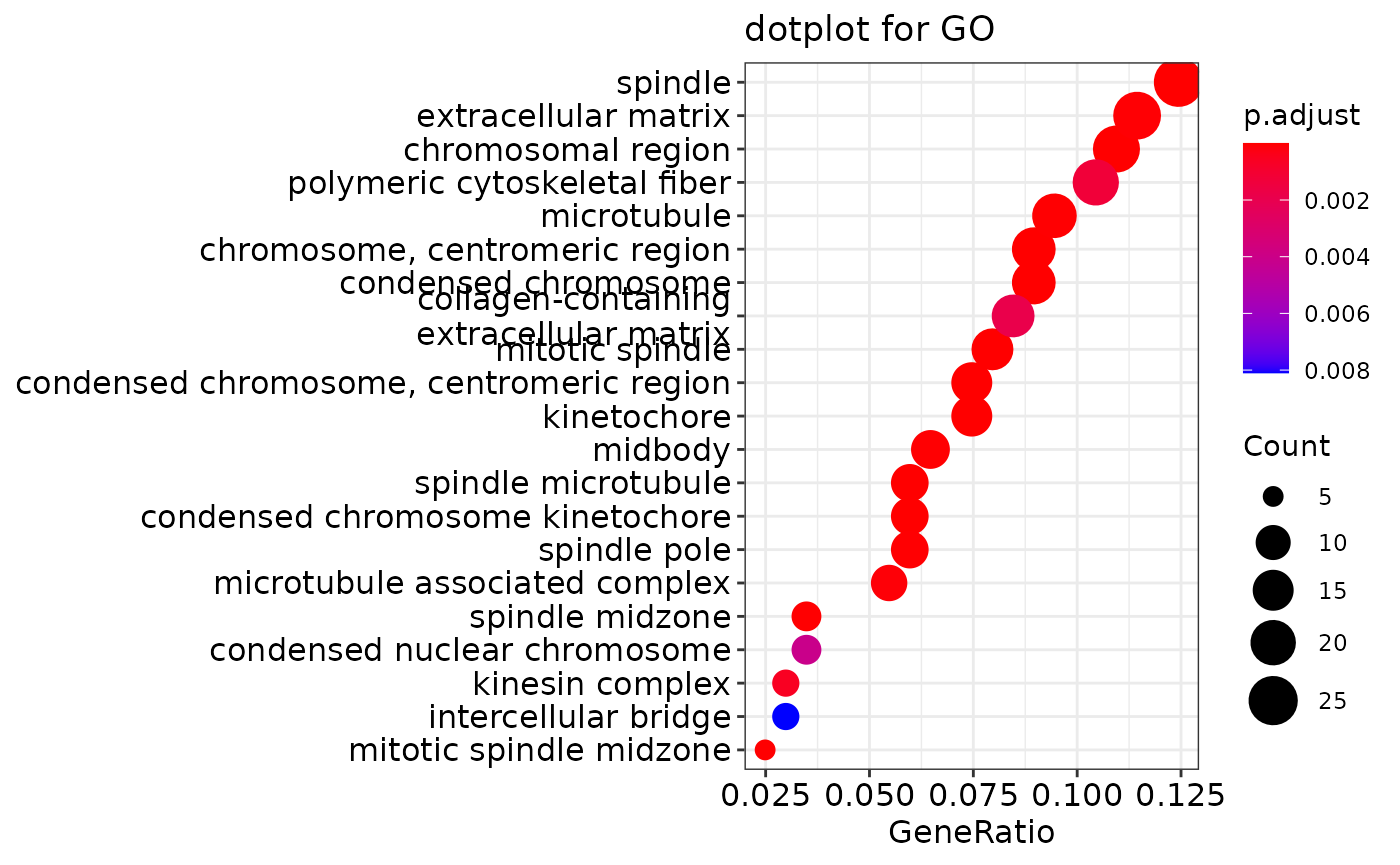
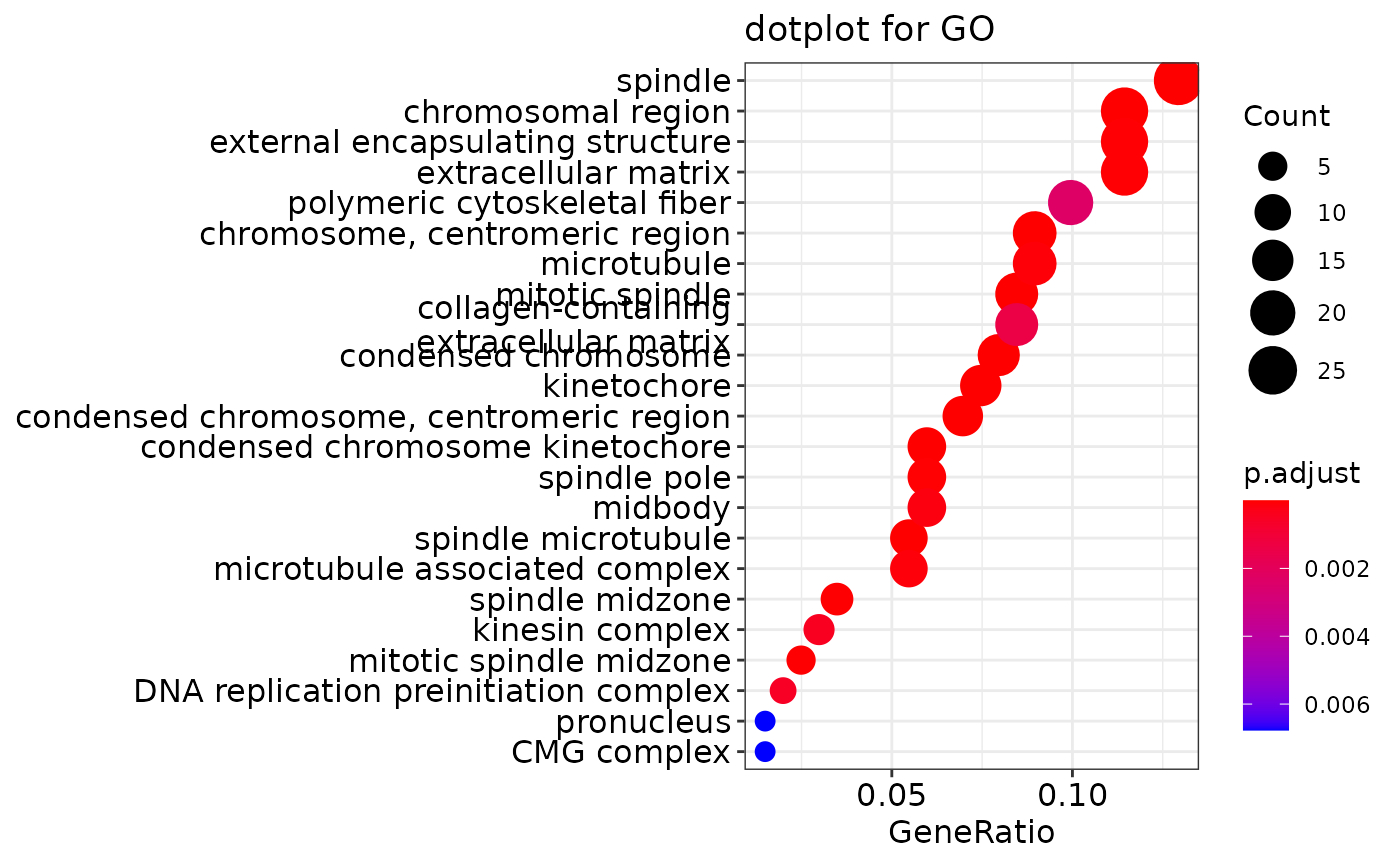
Deploying to gh-pages from  @ 6244d3f3c142cffd48e551c159de735a223b0542 🚀

diff --git a/articles/enrichment.html b/articles/enrichment.html
@@ -127,7 +127,7 @@
 
       
 
-      </header><script src="enrichment_files/header-attrs-2.7/header-attrs.js"></script><div class="row">
+      </header><script src="enrichment_files/header-attrs-2.8/header-attrs.js"></script><div class="row">
   <div class="col-md-9 contents">
     <div class="page-header toc-ignore">
       <h1 data-toc-skip>Enrichment analysis</h1>
@@ -234,32 +234,32 @@
         readable      <span class="op">=</span> <span class="cn">TRUE</span><span class="op">)</span>
 <span class="fu"><a href="https://rdrr.io/r/utils/head.html">head</a></span><span class="op">(</span><span class="va">ego</span><span class="op">)</span></code></pre></div>
 <pre><code>##                    ID                              Description GeneRatio
-## GO:0005819 GO:0005819                                  spindle    25/201
-## GO:0072686 GO:0072686                          mitotic spindle    16/201
-## GO:0005876 GO:0005876                      spindle microtubule    12/201
-## GO:0000779 GO:0000779 condensed chromosome, centromeric region    15/201
+## GO:0005819 GO:0005819                                  spindle    26/201
+## GO:0072686 GO:0072686                          mitotic spindle    17/201
 ## GO:0000775 GO:0000775           chromosome, centromeric region    18/201
+## GO:0098687 GO:0098687                       chromosomal region    23/201
+## GO:0000779 GO:0000779 condensed chromosome, centromeric region    14/201
 ## GO:0000776 GO:0000776                              kinetochore    15/201
 ##              BgRatio       pvalue     p.adjust       qvalue
-## GO:0005819 288/11841 1.770094e-11 4.167650e-09 3.831313e-09
-## GO:0072686 110/11841 4.495145e-11 4.167650e-09 3.831313e-09
-## GO:0005876  52/11841 4.691637e-11 4.167650e-09 3.831313e-09
-## GO:0000779  95/11841 5.556867e-11 4.167650e-09 3.831313e-09
-## GO:0000775 158/11841 1.712374e-10 1.027424e-08 9.445095e-09
-## GO:0000776 109/11841 4.151093e-10 1.841211e-08 1.692622e-08
-##                                                                                                                                                         geneID
-## GO:0005819 CDCA8/CDC20/KIF23/CENPE/ASPM/DLGAP5/SKA1/NUSAP1/TPX2/TACC3/NEK2/CDK1/MAD2L1/KIF18A/BIRC5/KIF11/TTK/AURKB/PRC1/KIFC1/KIF18B/KIF20A/AURKA/CCNB1/KIF4A
-## GO:0072686                                                      KIF23/CENPE/ASPM/SKA1/NUSAP1/TPX2/TACC3/CDK1/MAD2L1/KIF18A/KIF11/AURKB/PRC1/KIFC1/KIF18B/AURKA
-## GO:0005876                                                                             CENPE/SKA1/NUSAP1/CDK1/KIF18A/BIRC5/KIF11/AURKB/PRC1/KIF18B/AURKA/KIF4A
-## GO:0000779                                                            CENPE/NDC80/HJURP/SKA1/NEK2/CENPM/CENPN/ERCC6L/MAD2L1/CDT1/BIRC5/NCAPG/AURKB/AURKA/CCNB1
-## GO:0000775                                           CDCA8/CENPE/NDC80/HJURP/SKA1/NEK2/CENPM/CENPN/ERCC6L/MAD2L1/KIF18A/CDT1/BIRC5/TTK/NCAPG/AURKB/AURKA/CCNB1
-## GO:0000776                                                             CENPE/NDC80/HJURP/SKA1/NEK2/CENPM/CENPN/ERCC6L/MAD2L1/KIF18A/CDT1/BIRC5/TTK/AURKB/CCNB1
+## GO:0005819 299/11840 6.490593e-12 1.908234e-09 1.735380e-09
+## GO:0072686 129/11840 5.480692e-11 8.056617e-09 7.326819e-09
+## GO:0000775 156/11840 1.385677e-10 1.206452e-08 1.097168e-08
+## GO:0098687 269/11840 1.641432e-10 1.206452e-08 1.097168e-08
+## GO:0000779  90/11840 3.056082e-10 1.796976e-08 1.634199e-08
+## GO:0000776 109/11840 4.155863e-10 2.036373e-08 1.851911e-08
+##                                                                                                                                                               geneID
+## GO:0005819 CDCA8/CDC20/KIF23/CENPE/ASPM/DLGAP5/SKA1/NUSAP1/TPX2/TACC3/NEK2/CDK1/MAD2L1/KIF18A/BIRC5/KIF11/TRAT1/TTK/AURKB/PRC1/KIFC1/KIF18B/KIF20A/AURKA/CCNB1/KIF4A
+## GO:0072686                                                      KIF23/CENPE/ASPM/SKA1/NUSAP1/TPX2/TACC3/CDK1/MAD2L1/KIF18A/KIF11/TRAT1/AURKB/PRC1/KIFC1/KIF18B/AURKA
+## GO:0000775                                                 CDCA8/CENPE/NDC80/TOP2A/HJURP/SKA1/NEK2/CENPM/CENPN/ERCC6L/MAD2L1/KIF18A/CDT1/BIRC5/TTK/NCAPG/AURKB/CCNB1
+## GO:0098687                   CDCA8/CENPE/NDC80/TOP2A/HJURP/SKA1/NEK2/CENPM/RAD51AP1/CENPN/CDK1/ERCC6L/MAD2L1/KIF18A/CDT1/BIRC5/EZH2/TTK/NCAPG/AURKB/CHEK1/CCNB1/MCM5
+## GO:0000779                                                                        CENPE/NDC80/HJURP/SKA1/NEK2/CENPM/CENPN/ERCC6L/MAD2L1/CDT1/BIRC5/NCAPG/AURKB/CCNB1
+## GO:0000776                                                                   CENPE/NDC80/HJURP/SKA1/NEK2/CENPM/CENPN/ERCC6L/MAD2L1/KIF18A/CDT1/BIRC5/TTK/AURKB/CCNB1
 ##            Count
-## GO:0005819    25
-## GO:0072686    16
-## GO:0005876    12
-## GO:0000779    15
+## GO:0005819    26
+## GO:0072686    17
 ## GO:0000775    18
+## GO:0098687    23
+## GO:0000779    14
 ## GO:0000776    15</code></pre>
 <div class="sourceCode" id="cb34"><pre class="downlit sourceCode r">
 <code class="sourceCode R"><span class="va">p2</span> <span class="op">&lt;-</span> <span class="fu"><a href="https://rdrr.io/pkg/enrichplot/man/dotplot.html">dotplot</a></span><span class="op">(</span><span class="va">ego</span>, showCategory<span class="op">=</span><span class="fl">30</span><span class="op">)</span> <span class="op">+</span> <span class="fu"><a href="https://ggplot2.tidyverse.org/reference/labs.html">ggtitle</a></span><span class="op">(</span><span class="st">"dotplot for GO"</span><span class="op">)</span>

diff --git a/articles/R_data_types.html b/articles/R_data_types.html
@@ -127,7 +127,7 @@
 
       
 
-      </header><script src="R_data_types_files/header-attrs-2.7/header-attrs.js"></script><div class="row">
+      </header><script src="R_data_types_files/header-attrs-2.8/header-attrs.js"></script><div class="row">
   <div class="col-md-9 contents">
     <div class="page-header toc-ignore">
       <h1 data-toc-skip>R Data types</h1>
@@ -689,15 +689,15 @@
 <div class="sourceCode" id="cb181"><pre class="downlit sourceCode r">
 <code class="sourceCode R"><span class="va">current_date</span> <span class="op">&lt;-</span> <span class="fu"><a href="https://rdrr.io/r/base/Sys.time.html">Sys.time</a></span><span class="op">(</span><span class="op">)</span>
 <span class="va">current_date</span></code></pre></div>
-<pre><code>## [1] "2021-05-06 22:07:53 UTC"</code></pre>
+<pre><code>## [1] "2021-05-07 07:55:20 UTC"</code></pre>
 <div class="sourceCode" id="cb183"><pre class="downlit sourceCode r">
 <code class="sourceCode R"><span class="fu"><a href="https://rdrr.io/r/base/format.html">format</a></span><span class="op">(</span><span class="va">current_date</span>, <span class="st">"%d %b %Y"</span><span class="op">)</span></code></pre></div>
-<pre><code>## [1] "06 May 2021"</code></pre>
+<pre><code>## [1] "07 May 2021"</code></pre>
 <div class="sourceCode" id="cb185"><pre class="downlit sourceCode r">
 <code class="sourceCode R"><span class="va">current_date</span> <span class="op">&lt;-</span> <span class="fu"><a href="https://rdrr.io/r/base/Sys.time.html">Sys.Date</a></span><span class="op">(</span><span class="op">)</span>
 
 <span class="fu"><a href="https://rdrr.io/r/base/format.html">format</a></span><span class="op">(</span><span class="va">current_date</span><span class="op">-</span><span class="fl">1</span>, <span class="st">"%d %b %Y"</span><span class="op">)</span></code></pre></div>
-<pre><code>## [1] "05 May 2021"</code></pre>
+<pre><code>## [1] "06 May 2021"</code></pre>
 </div>
 <div id="lists" class="section level2">
 <h2 class="hasAnchor">
@@ -856,24 +856,24 @@
 <span class="va">num_mat</span> <span class="op">&lt;-</span> <span class="fu"><a href="https://rdrr.io/r/base/matrix.html">matrix</a></span><span class="op">(</span><span class="fu"><a href="https://rdrr.io/r/stats/Uniform.html">runif</a></span><span class="op">(</span><span class="fl">100</span><span class="op">)</span>, nrow<span class="op">=</span><span class="fl">10</span>, ncol<span class="op">=</span><span class="fl">10</span><span class="op">)</span>
 
 <span class="fu"><a href="https://rdrr.io/r/base/colSums.html">rowMeans</a></span><span class="op">(</span><span class="va">num_mat</span><span class="op">)</span>   </code></pre></div>
-<pre><code>##  [1] 0.4414200 0.5369737 0.3251319 0.6508526 0.5315719 0.4655227 0.5292750
-##  [8] 0.6152204 0.5448924 0.5878666</code></pre>
+<pre><code>##  [1] 0.4348758 0.5458287 0.5007728 0.5031322 0.6184277 0.5972804 0.4516438
+##  [8] 0.4266788 0.5491770 0.5365737</code></pre>
 <div class="sourceCode" id="cb227"><pre class="downlit sourceCode r">
 <code class="sourceCode R"><span class="fu">matrixStats</span><span class="fu">::</span><span class="fu"><a href="https://rdrr.io/pkg/matrixStats/man/rowMeans2.html">rowMeans2</a></span><span class="op">(</span><span class="va">num_mat</span><span class="op">)</span></code></pre></div>
-<pre><code>##  [1] 0.4414200 0.5369737 0.3251319 0.6508526 0.5315719 0.4655227 0.5292750
-##  [8] 0.6152204 0.5448924 0.5878666</code></pre>
+<pre><code>##  [1] 0.4348758 0.5458287 0.5007728 0.5031322 0.6184277 0.5972804 0.4516438
+##  [8] 0.4266788 0.5491770 0.5365737</code></pre>
 <div class="sourceCode" id="cb229"><pre class="downlit sourceCode r">
 <code class="sourceCode R"><span class="fu"><a href="https://rdrr.io/r/base/colSums.html">rowSums</a></span><span class="op">(</span><span class="va">num_mat</span><span class="op">)</span>    </code></pre></div>
-<pre><code>##  [1] 4.414200 5.369737 3.251319 6.508526 5.315719 4.655227 5.292750 6.152204
-##  [9] 5.448924 5.878666</code></pre>
+<pre><code>##  [1] 4.348758 5.458287 5.007728 5.031322 6.184277 5.972804 4.516438 4.266788
+##  [9] 5.491770 5.365737</code></pre>
 <div class="sourceCode" id="cb231"><pre class="downlit sourceCode r">
 <code class="sourceCode R"><span class="fu"><a href="https://rdrr.io/r/base/colSums.html">colMeans</a></span><span class="op">(</span><span class="va">num_mat</span><span class="op">)</span></code></pre></div>
-<pre><code>##  [1] 0.7288555 0.4832329 0.3762727 0.5062150 0.5408945 0.4740105 0.5906992
-##  [8] 0.5622625 0.4101525 0.5561318</code></pre>
+<pre><code>##  [1] 0.5279006 0.4447008 0.4517767 0.5593969 0.6207680 0.4857489 0.4571790
+##  [8] 0.5546143 0.4209921 0.6413135</code></pre>
 <div class="sourceCode" id="cb233"><pre class="downlit sourceCode r">
 <code class="sourceCode R"><span class="fu"><a href="https://rdrr.io/r/base/colSums.html">colSums</a></span><span class="op">(</span><span class="va">num_mat</span><span class="op">)</span>    </code></pre></div>
-<pre><code>##  [1] 7.288555 4.832329 3.762727 5.062150 5.408945 4.740105 5.906992 5.622625
-##  [9] 4.101525 5.561318</code></pre>
+<pre><code>##  [1] 5.279006 4.447008 4.517767 5.593969 6.207680 4.857489 4.571790 5.546143
+##  [9] 4.209921 6.413135</code></pre>
 </div>
 <div id="data-frame" class="section level2">
 <h2 class="hasAnchor">

diff --git a/articles/data_types_exercises_solutions.html b/articles/data_types_exercises_solutions.html
@@ -127,7 +127,7 @@
 
       
 
-      </header><script src="data_types_exercises_solutions_files/header-attrs-2.7/header-attrs.js"></script><div class="row">
+      </header><script src="data_types_exercises_solutions_files/header-attrs-2.8/header-attrs.js"></script><div class="row">
   <div class="col-md-9 contents">
     <div class="page-header toc-ignore">
       <h1 data-toc-skip>Data types, solutions</h1>
@@ -207,7 +207,7 @@
 <code class="sourceCode R"><span class="co">#8</span>
 <span class="va">a</span> <span class="op">&lt;-</span> <span class="fu"><a href="https://rdrr.io/r/base/sample.html">sample</a></span><span class="op">(</span><span class="fl">1</span><span class="op">:</span><span class="fl">100</span>, <span class="fl">100</span>, replace <span class="op">=</span> <span class="cn">T</span><span class="op">)</span>
 <span class="fu"><a href="https://rdrr.io/r/base/sum.html">sum</a></span><span class="op">(</span><span class="va">a</span><span class="op">==</span><span class="fl">3</span><span class="op">)</span></code></pre></div>
-<pre><code>## [1] 1</code></pre>
+<pre><code>## [1] 2</code></pre>
 </div>
 <div id="exercises-with-data-frames" class="section level2">
 <h2 class="hasAnchor">

diff --git a/articles/exercises_control_exercises.html b/articles/exercises_control_exercises.html
@@ -127,7 +127,7 @@
 
       
 
-      </header><script src="exercises_control_exercises_files/header-attrs-2.7/header-attrs.js"></script><div class="row">
+      </header><script src="exercises_control_exercises_files/header-attrs-2.8/header-attrs.js"></script><div class="row">
   <div class="col-md-9 contents">
     <div class="page-header toc-ignore">
       <h1 data-toc-skip>Control structures, exercises</h1>

diff --git a/articles/exercises_control_solutions.html b/articles/exercises_control_solutions.html
@@ -127,7 +127,7 @@
 
       
 
-      </header><script src="exercises_control_solutions_files/header-attrs-2.7/header-attrs.js"></script><div class="row">
+      </header><script src="exercises_control_solutions_files/header-attrs-2.8/header-attrs.js"></script><div class="row">
   <div class="col-md-9 contents">
     <div class="page-header toc-ignore">
       <h1 data-toc-skip>Control structures, solutions</h1>

diff --git a/articles/reproducible_solutions.html b/articles/reproducible_solutions.html
@@ -127,7 +127,7 @@
 
       
 
-      </header><script src="reproducible_solutions_files/header-attrs-2.7/header-attrs.js"></script><div class="row">
+      </header><script src="reproducible_solutions_files/header-attrs-2.8/header-attrs.js"></script><div class="row">
   <div class="col-md-9 contents">
     <div class="page-header toc-ignore">
       <h1 data-toc-skip>Reproducible programming, exercises</h1>

diff --git a/articles/functions_exercises_solutions.html b/articles/functions_exercises_solutions.html
@@ -127,7 +127,7 @@
 
       
 
-      </header><script src="functions_exercises_solutions_files/header-attrs-2.7/header-attrs.js"></script><div class="row">
+      </header><script src="functions_exercises_solutions_files/header-attrs-2.8/header-attrs.js"></script><div class="row">
   <div class="col-md-9 contents">
     <div class="page-header toc-ignore">
       <h1 data-toc-skip>Functions, solutions</h1>

diff --git a/articles/S4_classes_exercises.html b/articles/S4_classes_exercises.html
@@ -127,7 +127,7 @@
 
       
 
-      </header><script src="S4_classes_exercises_files/header-attrs-2.7/header-attrs.js"></script><div class="row">
+      </header><script src="S4_classes_exercises_files/header-attrs-2.8/header-attrs.js"></script><div class="row">
   <div class="col-md-9 contents">
     <div class="page-header toc-ignore">
       <h1 data-toc-skip>S4 classes, exercises</h1>

diff --git a/articles/data_types_exercises.html b/articles/data_types_exercises.html
@@ -127,7 +127,7 @@
 
       
 
-      </header><script src="data_types_exercises_files/header-attrs-2.7/header-attrs.js"></script><div class="row">
+      </header><script src="data_types_exercises_files/header-attrs-2.8/header-attrs.js"></script><div class="row">
   <div class="col-md-9 contents">
     <div class="page-header toc-ignore">
       <h1 data-toc-skip>Data types, exercises</h1>

diff --git a/articles/functions_exercises.html b/articles/functions_exercises.html
@@ -127,7 +127,7 @@
 
       
 
-      </header><script src="functions_exercises_files/header-attrs-2.7/header-attrs.js"></script><div class="row">
+      </header><script src="functions_exercises_files/header-attrs-2.8/header-attrs.js"></script><div class="row">
   <div class="col-md-9 contents">
     <div class="page-header toc-ignore">
       <h1 data-toc-skip>Functions, exercises</h1>

diff --git a/articles/control_structures.html b/articles/control_structures.html
@@ -127,7 +127,7 @@
 
       
 
-      </header><script src="control_structures_files/header-attrs-2.7/header-attrs.js"></script><div class="row">
+      </header><script src="control_structures_files/header-attrs-2.8/header-attrs.js"></script><div class="row">
   <div class="col-md-9 contents">
     <div class="page-header toc-ignore">
       <h1 data-toc-skip>Control structures</h1>

diff --git a/articles/r_functions.html b/articles/r_functions.html
@@ -127,7 +127,7 @@
 
       
 
-      </header><script src="r_functions_files/header-attrs-2.7/header-attrs.js"></script><div class="row">
+      </header><script src="r_functions_files/header-attrs-2.8/header-attrs.js"></script><div class="row">
   <div class="col-md-9 contents">
     <div class="page-header toc-ignore">
       <h1 data-toc-skip>Functions, useful packages</h1>
